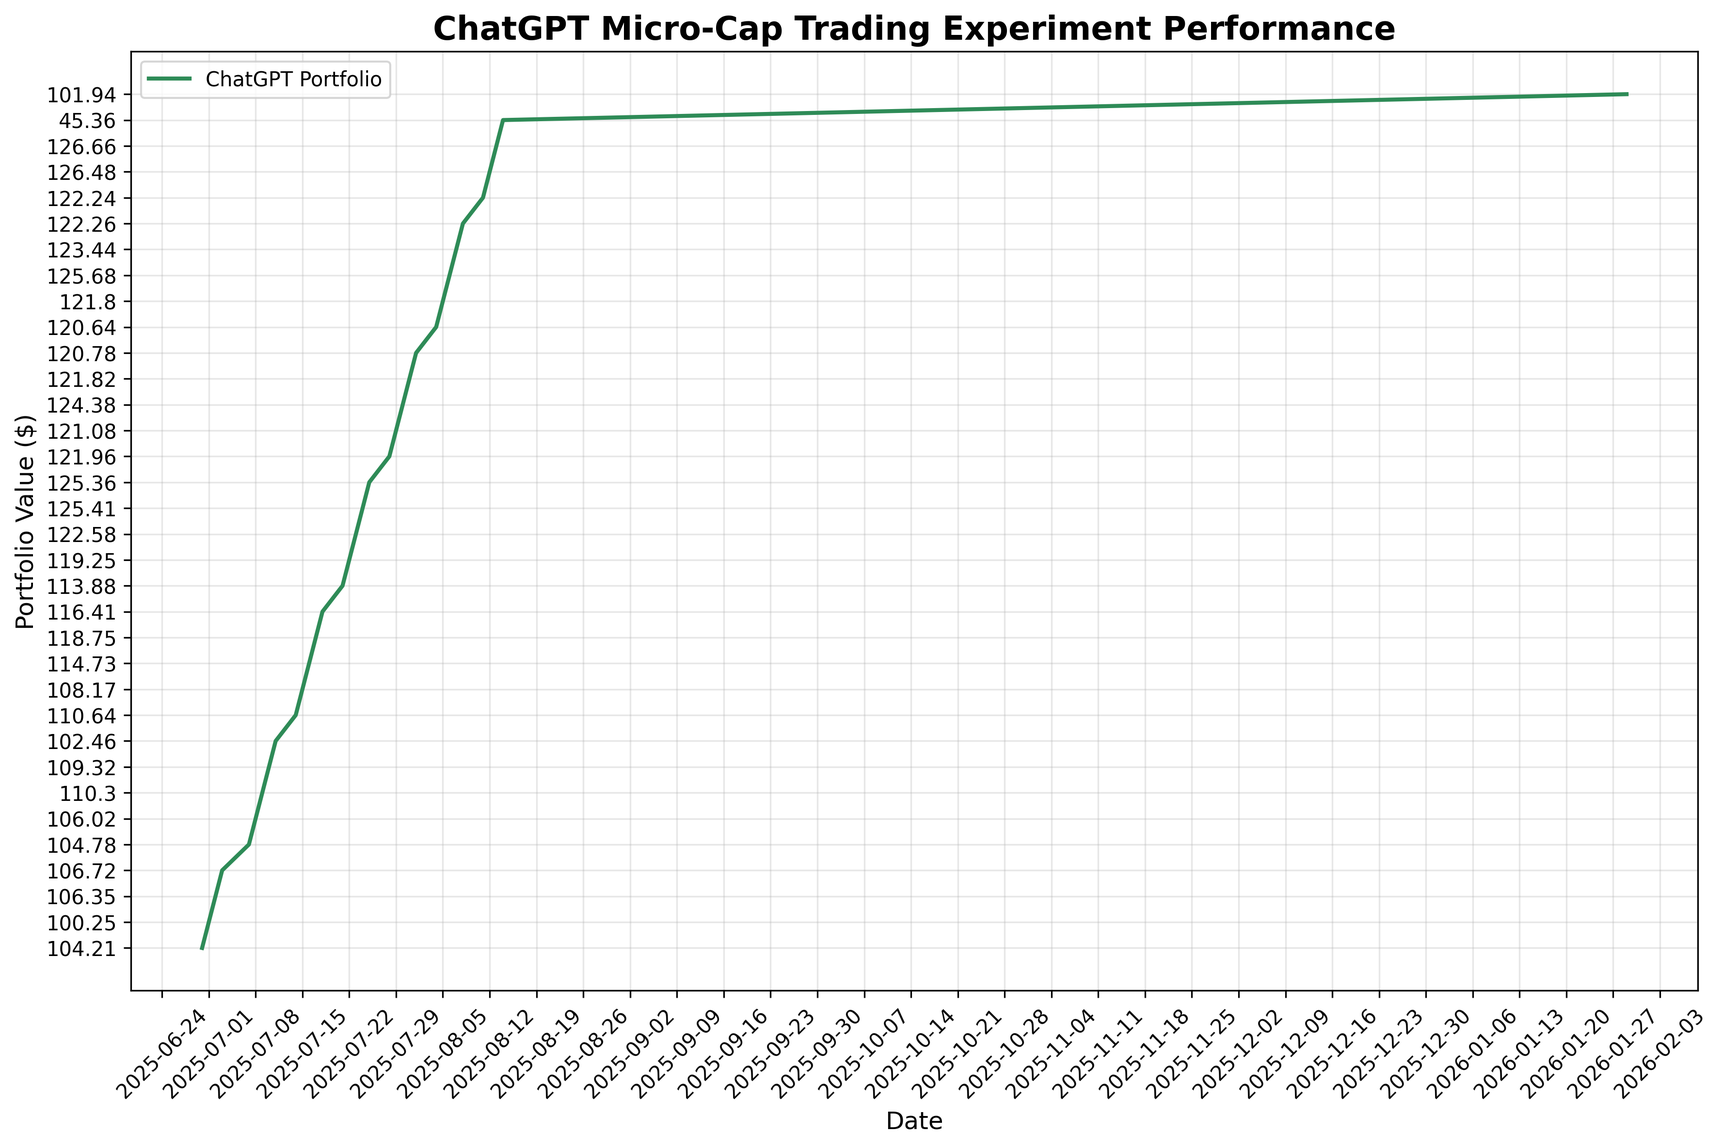
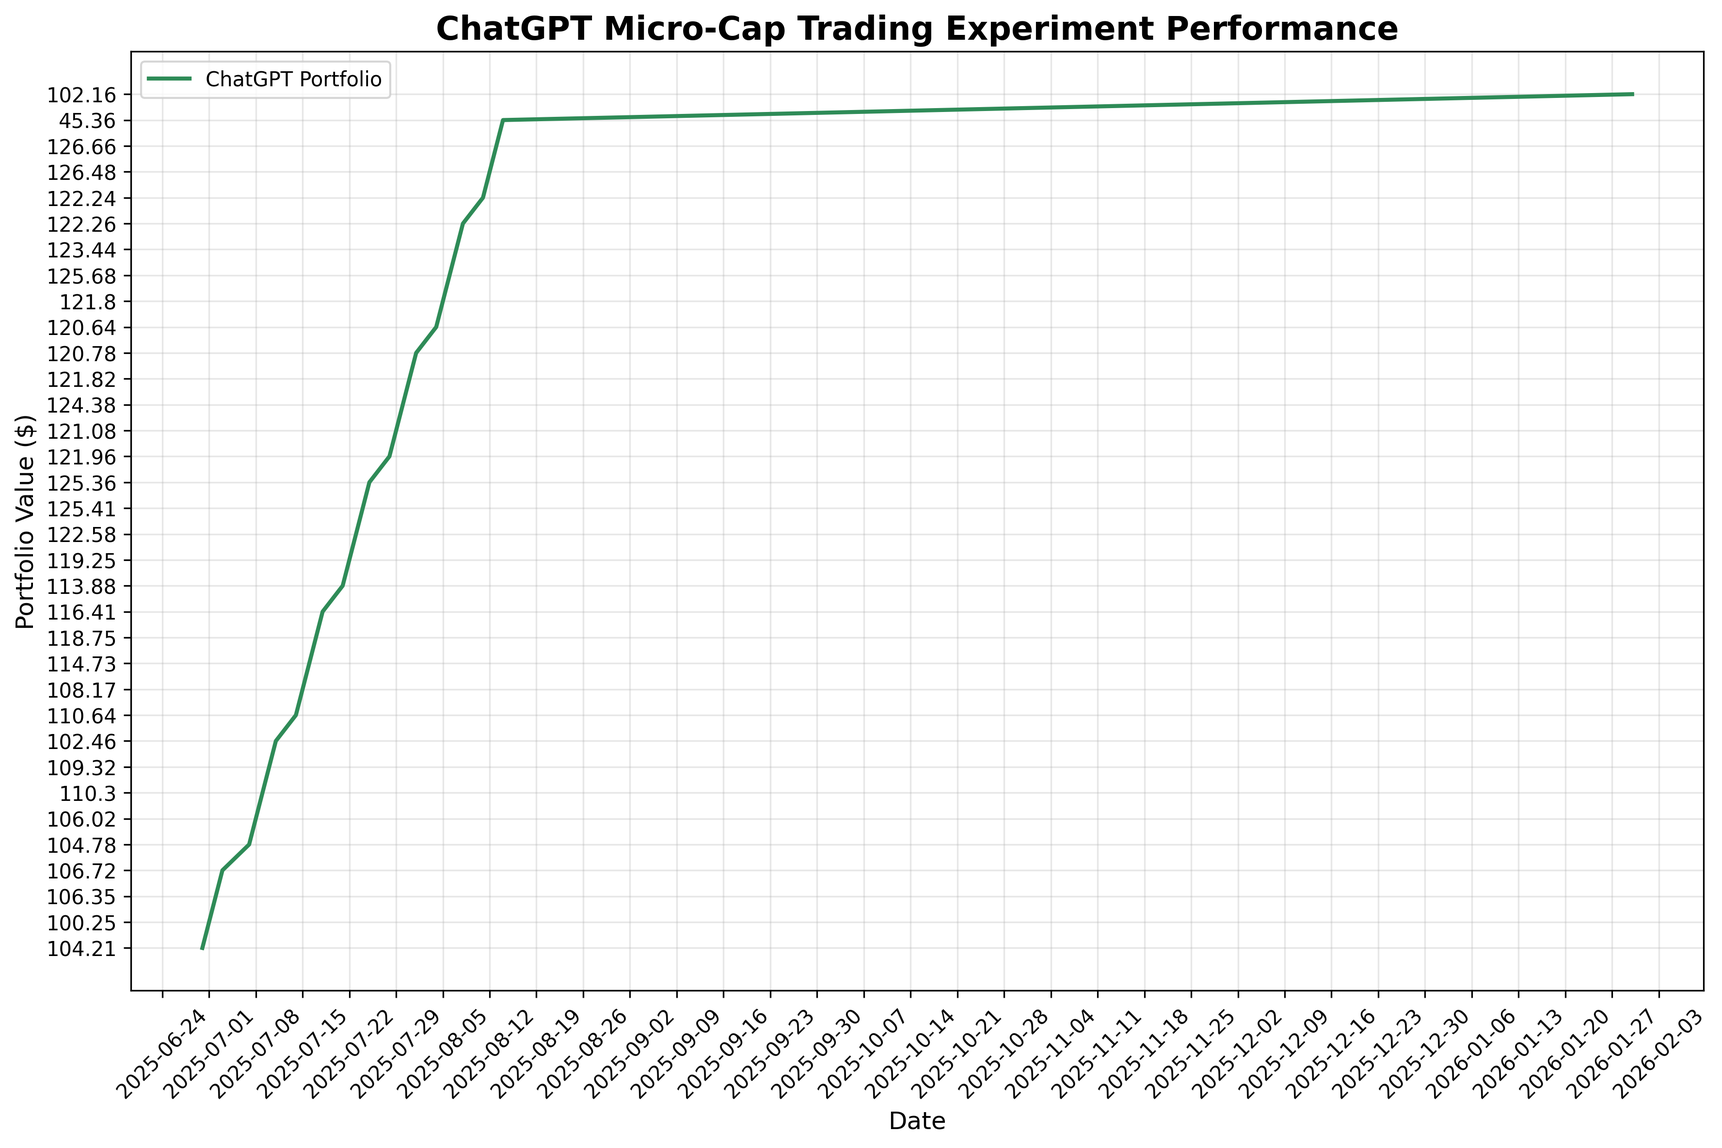
deploy: e15cad030d70fb3fbb51f9df6e22fa70c2f175c0

diff --git a/index.html b/index.html
@@ -105,7 +105,7 @@
                 <div class="stat-label">Total Trades</div>
             </div>
             <div class="stat-card">
-                <div class="stat-value" id="last-updated">2026-01-29</div>
+                <div class="stat-value" id="last-updated">2026-01-30</div>
                 <div class="stat-label">Last Updated</div>
             </div>
         </div>
@@ -160,8 +160,8 @@
     
     <script>
         // Portfolio data
-        const portfolioData = JSON.parse("[{&quot;Date&quot;: &quot;2025-08-11&quot;, &quot;Ticker&quot;: &quot;ABEO&quot;, &quot;Shares&quot;: 4.0, &quot;Buy Price&quot;: 5.77, &quot;Cost Basis&quot;: 23.08, &quot;Stop Loss&quot;: 4.9, &quot;Current Price&quot;: 6.28, &quot;Total Value&quot;: 25.12, &quot;PnL&quot;: 2.04, &quot;Action&quot;: &quot;HOLD&quot;, &quot;Cash Balance&quot;: NaN, &quot;Total Equity&quot;: NaN}, {&quot;Date&quot;: &quot;2025-08-11&quot;, &quot;Ticker&quot;: &quot;ACTU&quot;, &quot;Shares&quot;: 6.0, &quot;Buy Price&quot;: 5.75, &quot;Cost Basis&quot;: 34.5, &quot;Stop Loss&quot;: 4.89, &quot;Current Price&quot;: 8.01, &quot;Total Value&quot;: 48.06, &quot;PnL&quot;: 13.56, &quot;Action&quot;: &quot;HOLD&quot;, &quot;Cash Balance&quot;: NaN, &quot;Total Equity&quot;: NaN}, {&quot;Date&quot;: &quot;2025-08-11&quot;, &quot;Ticker&quot;: &quot;ESPR&quot;, &quot;Shares&quot;: 2.0, &quot;Buy Price&quot;: 1.91, &quot;Cost Basis&quot;: 3.82, &quot;Stop Loss&quot;: 1.6, &quot;Current Price&quot;: 1.85, &quot;Total Value&quot;: 3.7, &quot;PnL&quot;: -0.12, &quot;Action&quot;: &quot;HOLD&quot;, &quot;Cash Balance&quot;: NaN, &quot;Total Equity&quot;: NaN}, {&quot;Date&quot;: &quot;2025-08-11&quot;, &quot;Ticker&quot;: &quot;TOTAL&quot;, &quot;Shares&quot;: NaN, &quot;Buy Price&quot;: NaN, &quot;Cost Basis&quot;: NaN, &quot;Stop Loss&quot;: NaN, &quot;Current Price&quot;: NaN, &quot;Total Value&quot;: 76.88, &quot;PnL&quot;: 15.48, &quot;Action&quot;: NaN, &quot;Cash Balance&quot;: 45.36, &quot;Total Equity&quot;: &quot;122.24&quot;}, {&quot;Date&quot;: &quot;2025-08-12&quot;, &quot;Ticker&quot;: &quot;ABEO&quot;, &quot;Shares&quot;: 4.0, &quot;Buy Price&quot;: 5.77, &quot;Cost Basis&quot;: 23.08, &quot;Stop Loss&quot;: 4.9, &quot;Current Price&quot;: 6.38, &quot;Total Value&quot;: 25.52, &quot;PnL&quot;: 2.44, &quot;Action&quot;: &quot;HOLD&quot;, &quot;Cash Balance&quot;: NaN, &quot;Total Equity&quot;: NaN}, {&quot;Date&quot;: &quot;2025-08-12&quot;, &quot;Ticker&quot;: &quot;ACTU&quot;, &quot;Shares&quot;: 6.0, &quot;Buy Price&quot;: 5.75, &quot;Cost Basis&quot;: 34.5, &quot;Stop Loss&quot;: 4.89, &quot;Current Price&quot;: 8.67, &quot;Total Value&quot;: 52.02, &quot;PnL&quot;: 17.52, &quot;Action&quot;: &quot;HOLD&quot;, &quot;Cash Balance&quot;: NaN, &quot;Total Equity&quot;: NaN}, {&quot;Date&quot;: &quot;2025-08-12&quot;, &quot;Ticker&quot;: &quot;ESPR&quot;, &quot;Shares&quot;: 2.0, &quot;Buy Price&quot;: 1.91, &quot;Cost Basis&quot;: 3.82, &quot;Stop Loss&quot;: 1.6, &quot;Current Price&quot;: 1.79, &quot;Total Value&quot;: 3.58, &quot;PnL&quot;: -0.24, &quot;Action&quot;: &quot;HOLD&quot;, &quot;Cash Balance&quot;: NaN, &quot;Total Equity&quot;: NaN}, {&quot;Date&quot;: &quot;2025-08-12&quot;, &quot;Ticker&quot;: &quot;TOTAL&quot;, &quot;Shares&quot;: NaN, &quot;Buy Price&quot;: NaN, &quot;Cost Basis&quot;: NaN, &quot;Stop Loss&quot;: NaN, &quot;Current Price&quot;: NaN, &quot;Total Value&quot;: 81.12, &quot;PnL&quot;: 19.72, &quot;Action&quot;: NaN, &quot;Cash Balance&quot;: 45.36, &quot;Total Equity&quot;: &quot;126.48&quot;}, {&quot;Date&quot;: &quot;2025-08-13&quot;, &quot;Ticker&quot;: &quot;ABEO&quot;, &quot;Shares&quot;: 4.0, &quot;Buy Price&quot;: 5.77, &quot;Cost Basis&quot;: 23.08, &quot;Stop Loss&quot;: 4.9, &quot;Current Price&quot;: 6.56, &quot;Total Value&quot;: 26.24, &quot;PnL&quot;: 3.16, &quot;Action&quot;: &quot;HOLD&quot;, &quot;Cash Balance&quot;: NaN, &quot;Total Equity&quot;: NaN}, {&quot;Date&quot;: &quot;2025-08-13&quot;, &quot;Ticker&quot;: &quot;ACTU&quot;, &quot;Shares&quot;: 6.0, &quot;Buy Price&quot;: 5.75, &quot;Cost Basis&quot;: 34.5, &quot;Stop Loss&quot;: 4.89, &quot;Current Price&quot;: 8.53, &quot;Total Value&quot;: 51.18, &quot;PnL&quot;: 16.68, &quot;Action&quot;: &quot;HOLD&quot;, &quot;Cash Balance&quot;: NaN, &quot;Total Equity&quot;: NaN}, {&quot;Date&quot;: &quot;2025-08-13&quot;, &quot;Ticker&quot;: &quot;ESPR&quot;, &quot;Shares&quot;: 2.0, &quot;Buy Price&quot;: 1.91, &quot;Cost Basis&quot;: 3.82, &quot;Stop Loss&quot;: 1.6, &quot;Current Price&quot;: 1.94, &quot;Total Value&quot;: 3.88, &quot;PnL&quot;: 0.06, &quot;Action&quot;: &quot;HOLD&quot;, &quot;Cash Balance&quot;: NaN, &quot;Total Equity&quot;: NaN}, {&quot;Date&quot;: &quot;2025-08-13&quot;, &quot;Ticker&quot;: &quot;TOTAL&quot;, &quot;Shares&quot;: NaN, &quot;Buy Price&quot;: NaN, &quot;Cost Basis&quot;: NaN, &quot;Stop Loss&quot;: NaN, &quot;Current Price&quot;: NaN, &quot;Total Value&quot;: 81.3, &quot;PnL&quot;: 19.9, &quot;Action&quot;: NaN, &quot;Cash Balance&quot;: 45.36, &quot;Total Equity&quot;: &quot;126.66&quot;}, {&quot;Date&quot;: &quot;2025-08-14&quot;, &quot;Ticker&quot;: &quot;ABEO&quot;, &quot;Shares&quot;: 4.0, &quot;Buy Price&quot;: 5.77, &quot;Cost Basis&quot;: 23.08, &quot;Stop Loss&quot;: 4.9, &quot;Current Price&quot;: NaN, &quot;Total Value&quot;: NaN, &quot;PnL&quot;: NaN, &quot;Action&quot;: &quot;NO DATA&quot;, &quot;Cash Balance&quot;: NaN, &quot;Total Equity&quot;: NaN}, {&quot;Date&quot;: &quot;2025-08-14&quot;, &quot;Ticker&quot;: &quot;ACTU&quot;, &quot;Shares&quot;: 6.0, &quot;Buy Price&quot;: 5.75, &quot;Cost Basis&quot;: 34.5, &quot;Stop Loss&quot;: 4.89, &quot;Current Price&quot;: NaN, &quot;Total Value&quot;: NaN, &quot;PnL&quot;: NaN, &quot;Action&quot;: &quot;NO DATA&quot;, &quot;Cash Balance&quot;: NaN, &quot;Total Equity&quot;: NaN}, {&quot;Date&quot;: &quot;2025-08-14&quot;, &quot;Ticker&quot;: &quot;ESPR&quot;, &quot;Shares&quot;: 2.0, &quot;Buy Price&quot;: 1.91, &quot;Cost Basis&quot;: 3.82, &quot;Stop Loss&quot;: 1.6, &quot;Current Price&quot;: NaN, &quot;Total Value&quot;: NaN, &quot;PnL&quot;: NaN, &quot;Action&quot;: &quot;NO DATA&quot;, &quot;Cash Balance&quot;: NaN, &quot;Total Equity&quot;: NaN}, {&quot;Date&quot;: &quot;2025-08-14&quot;, &quot;Ticker&quot;: &quot;TOTAL&quot;, &quot;Shares&quot;: NaN, &quot;Buy Price&quot;: NaN, &quot;Cost Basis&quot;: NaN, &quot;Stop Loss&quot;: NaN, &quot;Current Price&quot;: NaN, &quot;Total Value&quot;: 0.0, &quot;PnL&quot;: 0.0, &quot;Action&quot;: NaN, &quot;Cash Balance&quot;: 45.36, &quot;Total Equity&quot;: &quot;45.36&quot;}, {&quot;Date&quot;: &quot;2026-01-29&quot;, &quot;Ticker&quot;: &quot;ABEO&quot;, &quot;Shares&quot;: 4.0, &quot;Buy Price&quot;: 5.77, &quot;Cost Basis&quot;: 23.08, &quot;Stop Loss&quot;: 4.9, &quot;Current Price&quot;: 4.9, &quot;Total Value&quot;: 19.6, &quot;PnL&quot;: -3.48, &quot;Action&quot;: &quot;SELL - Stop Loss Triggered&quot;, &quot;Cash Balance&quot;: NaN, &quot;Total Equity&quot;: NaN}, {&quot;Date&quot;: &quot;2026-01-29&quot;, &quot;Ticker&quot;: &quot;ACTU&quot;, &quot;Shares&quot;: 6.0, &quot;Buy Price&quot;: 5.75, &quot;Cost Basis&quot;: 34.5, &quot;Stop Loss&quot;: 4.89, &quot;Current Price&quot;: 5.01, &quot;Total Value&quot;: 30.06, &quot;PnL&quot;: -4.44, &quot;Action&quot;: &quot;HOLD&quot;, &quot;Cash Balance&quot;: NaN, &quot;Total Equity&quot;: NaN}, {&quot;Date&quot;: &quot;2026-01-29&quot;, &quot;Ticker&quot;: &quot;ESPR&quot;, &quot;Shares&quot;: 2.0, &quot;Buy Price&quot;: 1.91, &quot;Cost Basis&quot;: 3.82, &quot;Stop Loss&quot;: 1.6, &quot;Current Price&quot;: 3.46, &quot;Total Value&quot;: 6.92, &quot;PnL&quot;: 3.1, &quot;Action&quot;: &quot;HOLD&quot;, &quot;Cash Balance&quot;: NaN, &quot;Total Equity&quot;: NaN}, {&quot;Date&quot;: &quot;2026-01-29&quot;, &quot;Ticker&quot;: &quot;TOTAL&quot;, &quot;Shares&quot;: NaN, &quot;Buy Price&quot;: NaN, &quot;Cost Basis&quot;: NaN, &quot;Stop Loss&quot;: NaN, &quot;Current Price&quot;: NaN, &quot;Total Value&quot;: 36.98, &quot;PnL&quot;: -1.34, &quot;Action&quot;: NaN, &quot;Cash Balance&quot;: 64.96, &quot;Total Equity&quot;: &quot;101.94&quot;}]");
-        const tradeData = JSON.parse("[{&quot;Date&quot;: &quot;2025-07-08&quot;, &quot;Ticker&quot;: &quot;IINN&quot;, &quot;Shares Bought&quot;: 20.0, &quot;Buy Price&quot;: 1.5, &quot;Cost Basis&quot;: 30.0, &quot;PnL&quot;: 0.0, &quot;Reason&quot;: &quot;MANUAL BUY - New position&quot;, &quot;Shares Sold&quot;: NaN, &quot;Sell Price&quot;: NaN}, {&quot;Date&quot;: &quot;2025-07-21&quot;, &quot;Ticker&quot;: &quot;CADL&quot;, &quot;Shares Bought&quot;: NaN, &quot;Buy Price&quot;: NaN, &quot;Cost Basis&quot;: 25.2, &quot;PnL&quot;: 8.5, &quot;Reason&quot;: &quot;MANUAL SELL - GAIN CAPITAL FOR ACTU&quot;, &quot;Shares Sold&quot;: 5.0, &quot;Sell Price&quot;: 6.59}, {&quot;Date&quot;: &quot;2025-07-21&quot;, &quot;Ticker&quot;: &quot;ACTU&quot;, &quot;Shares Bought&quot;: 6.0, &quot;Buy Price&quot;: 5.75, &quot;Cost Basis&quot;: 34.5, &quot;PnL&quot;: 0.0, &quot;Reason&quot;: &quot;MANUAL BUY - New position&quot;, &quot;Shares Sold&quot;: NaN, &quot;Sell Price&quot;: NaN}, {&quot;Date&quot;: &quot;2025-07-28&quot;, &quot;Ticker&quot;: &quot;IINN&quot;, &quot;Shares Bought&quot;: NaN, &quot;Buy Price&quot;: NaN, &quot;Cost Basis&quot;: 9.0, &quot;PnL&quot;: -0.5400000000000009, &quot;Reason&quot;: &quot;MANUAL SELL - POSITION REDUCTION&quot;, &quot;Shares Sold&quot;: 6.0, &quot;Sell Price&quot;: 1.41}, {&quot;Date&quot;: &quot;2025-07-29&quot;, &quot;Ticker&quot;: &quot;AZTR&quot;, &quot;Shares Bought&quot;: NaN, &quot;Buy Price&quot;: NaN, &quot;Cost Basis&quot;: 13.75, &quot;PnL&quot;: -2.75, &quot;Reason&quot;: &quot;MANUAL SELL - DILUTION RISK&quot;, &quot;Shares Sold&quot;: 55.0, &quot;Sell Price&quot;: 0.2}, {&quot;Date&quot;: &quot;2025-08-01&quot;, &quot;Ticker&quot;: &quot;IINN&quot;, &quot;Shares Bought&quot;: 2.0, &quot;Buy Price&quot;: 1.74, &quot;Cost Basis&quot;: 3.48, &quot;PnL&quot;: 0.0, &quot;Reason&quot;: &quot;MANUAL BUY - New position&quot;, &quot;Shares Sold&quot;: NaN, &quot;Sell Price&quot;: NaN}, {&quot;Date&quot;: &quot;2025-08-01&quot;, &quot;Ticker&quot;: &quot;ABEO&quot;, &quot;Shares Bought&quot;: NaN, &quot;Buy Price&quot;: NaN, &quot;Cost Basis&quot;: 11.54, &quot;PnL&quot;: 1.200000000000001, &quot;Reason&quot;: &quot;MANUAL SELL - TRIM AFTER SUPPORT LOSS&quot;, &quot;Shares Sold&quot;: 2.0, &quot;Sell Price&quot;: 6.37}, {&quot;Date&quot;: &quot;2025-08-07&quot;, &quot;Ticker&quot;: &quot;ESPR&quot;, &quot;Shares Bought&quot;: 2.0, &quot;Buy Price&quot;: 1.91, &quot;Cost Basis&quot;: 3.82, &quot;PnL&quot;: 0.0, &quot;Reason&quot;: &quot;MANUAL BUY - New position&quot;, &quot;Shares Sold&quot;: NaN, &quot;Sell Price&quot;: NaN}, {&quot;Date&quot;: &quot;2025-08-08&quot;, &quot;Ticker&quot;: &quot;IINN&quot;, &quot;Shares Bought&quot;: NaN, &quot;Buy Price&quot;: NaN, &quot;Cost Basis&quot;: 1.5, &quot;PnL&quot;: -6.4, &quot;Reason&quot;: &quot;AUTOMATED SELL - STOPLOSS TRIGGERED&quot;, &quot;Shares Sold&quot;: 16.0, &quot;Sell Price&quot;: 1.1}, {&quot;Date&quot;: &quot;2026-01-29&quot;, &quot;Ticker&quot;: &quot;ABEO&quot;, &quot;Shares Bought&quot;: NaN, &quot;Buy Price&quot;: NaN, &quot;Cost Basis&quot;: 5.77, &quot;PnL&quot;: -3.48, &quot;Reason&quot;: &quot;AUTOMATED SELL - STOPLOSS TRIGGERED&quot;, &quot;Shares Sold&quot;: 4.0, &quot;Sell Price&quot;: 4.9}]");
+        const portfolioData = JSON.parse("[{&quot;Date&quot;: &quot;2025-08-11&quot;, &quot;Ticker&quot;: &quot;ABEO&quot;, &quot;Shares&quot;: 4.0, &quot;Buy Price&quot;: 5.77, &quot;Cost Basis&quot;: 23.08, &quot;Stop Loss&quot;: 4.9, &quot;Current Price&quot;: 6.28, &quot;Total Value&quot;: 25.12, &quot;PnL&quot;: 2.04, &quot;Action&quot;: &quot;HOLD&quot;, &quot;Cash Balance&quot;: NaN, &quot;Total Equity&quot;: NaN}, {&quot;Date&quot;: &quot;2025-08-11&quot;, &quot;Ticker&quot;: &quot;ACTU&quot;, &quot;Shares&quot;: 6.0, &quot;Buy Price&quot;: 5.75, &quot;Cost Basis&quot;: 34.5, &quot;Stop Loss&quot;: 4.89, &quot;Current Price&quot;: 8.01, &quot;Total Value&quot;: 48.06, &quot;PnL&quot;: 13.56, &quot;Action&quot;: &quot;HOLD&quot;, &quot;Cash Balance&quot;: NaN, &quot;Total Equity&quot;: NaN}, {&quot;Date&quot;: &quot;2025-08-11&quot;, &quot;Ticker&quot;: &quot;ESPR&quot;, &quot;Shares&quot;: 2.0, &quot;Buy Price&quot;: 1.91, &quot;Cost Basis&quot;: 3.82, &quot;Stop Loss&quot;: 1.6, &quot;Current Price&quot;: 1.85, &quot;Total Value&quot;: 3.7, &quot;PnL&quot;: -0.12, &quot;Action&quot;: &quot;HOLD&quot;, &quot;Cash Balance&quot;: NaN, &quot;Total Equity&quot;: NaN}, {&quot;Date&quot;: &quot;2025-08-11&quot;, &quot;Ticker&quot;: &quot;TOTAL&quot;, &quot;Shares&quot;: NaN, &quot;Buy Price&quot;: NaN, &quot;Cost Basis&quot;: NaN, &quot;Stop Loss&quot;: NaN, &quot;Current Price&quot;: NaN, &quot;Total Value&quot;: 76.88, &quot;PnL&quot;: 15.48, &quot;Action&quot;: NaN, &quot;Cash Balance&quot;: 45.36, &quot;Total Equity&quot;: &quot;122.24&quot;}, {&quot;Date&quot;: &quot;2025-08-12&quot;, &quot;Ticker&quot;: &quot;ABEO&quot;, &quot;Shares&quot;: 4.0, &quot;Buy Price&quot;: 5.77, &quot;Cost Basis&quot;: 23.08, &quot;Stop Loss&quot;: 4.9, &quot;Current Price&quot;: 6.38, &quot;Total Value&quot;: 25.52, &quot;PnL&quot;: 2.44, &quot;Action&quot;: &quot;HOLD&quot;, &quot;Cash Balance&quot;: NaN, &quot;Total Equity&quot;: NaN}, {&quot;Date&quot;: &quot;2025-08-12&quot;, &quot;Ticker&quot;: &quot;ACTU&quot;, &quot;Shares&quot;: 6.0, &quot;Buy Price&quot;: 5.75, &quot;Cost Basis&quot;: 34.5, &quot;Stop Loss&quot;: 4.89, &quot;Current Price&quot;: 8.67, &quot;Total Value&quot;: 52.02, &quot;PnL&quot;: 17.52, &quot;Action&quot;: &quot;HOLD&quot;, &quot;Cash Balance&quot;: NaN, &quot;Total Equity&quot;: NaN}, {&quot;Date&quot;: &quot;2025-08-12&quot;, &quot;Ticker&quot;: &quot;ESPR&quot;, &quot;Shares&quot;: 2.0, &quot;Buy Price&quot;: 1.91, &quot;Cost Basis&quot;: 3.82, &quot;Stop Loss&quot;: 1.6, &quot;Current Price&quot;: 1.79, &quot;Total Value&quot;: 3.58, &quot;PnL&quot;: -0.24, &quot;Action&quot;: &quot;HOLD&quot;, &quot;Cash Balance&quot;: NaN, &quot;Total Equity&quot;: NaN}, {&quot;Date&quot;: &quot;2025-08-12&quot;, &quot;Ticker&quot;: &quot;TOTAL&quot;, &quot;Shares&quot;: NaN, &quot;Buy Price&quot;: NaN, &quot;Cost Basis&quot;: NaN, &quot;Stop Loss&quot;: NaN, &quot;Current Price&quot;: NaN, &quot;Total Value&quot;: 81.12, &quot;PnL&quot;: 19.72, &quot;Action&quot;: NaN, &quot;Cash Balance&quot;: 45.36, &quot;Total Equity&quot;: &quot;126.48&quot;}, {&quot;Date&quot;: &quot;2025-08-13&quot;, &quot;Ticker&quot;: &quot;ABEO&quot;, &quot;Shares&quot;: 4.0, &quot;Buy Price&quot;: 5.77, &quot;Cost Basis&quot;: 23.08, &quot;Stop Loss&quot;: 4.9, &quot;Current Price&quot;: 6.56, &quot;Total Value&quot;: 26.24, &quot;PnL&quot;: 3.16, &quot;Action&quot;: &quot;HOLD&quot;, &quot;Cash Balance&quot;: NaN, &quot;Total Equity&quot;: NaN}, {&quot;Date&quot;: &quot;2025-08-13&quot;, &quot;Ticker&quot;: &quot;ACTU&quot;, &quot;Shares&quot;: 6.0, &quot;Buy Price&quot;: 5.75, &quot;Cost Basis&quot;: 34.5, &quot;Stop Loss&quot;: 4.89, &quot;Current Price&quot;: 8.53, &quot;Total Value&quot;: 51.18, &quot;PnL&quot;: 16.68, &quot;Action&quot;: &quot;HOLD&quot;, &quot;Cash Balance&quot;: NaN, &quot;Total Equity&quot;: NaN}, {&quot;Date&quot;: &quot;2025-08-13&quot;, &quot;Ticker&quot;: &quot;ESPR&quot;, &quot;Shares&quot;: 2.0, &quot;Buy Price&quot;: 1.91, &quot;Cost Basis&quot;: 3.82, &quot;Stop Loss&quot;: 1.6, &quot;Current Price&quot;: 1.94, &quot;Total Value&quot;: 3.88, &quot;PnL&quot;: 0.06, &quot;Action&quot;: &quot;HOLD&quot;, &quot;Cash Balance&quot;: NaN, &quot;Total Equity&quot;: NaN}, {&quot;Date&quot;: &quot;2025-08-13&quot;, &quot;Ticker&quot;: &quot;TOTAL&quot;, &quot;Shares&quot;: NaN, &quot;Buy Price&quot;: NaN, &quot;Cost Basis&quot;: NaN, &quot;Stop Loss&quot;: NaN, &quot;Current Price&quot;: NaN, &quot;Total Value&quot;: 81.3, &quot;PnL&quot;: 19.9, &quot;Action&quot;: NaN, &quot;Cash Balance&quot;: 45.36, &quot;Total Equity&quot;: &quot;126.66&quot;}, {&quot;Date&quot;: &quot;2025-08-14&quot;, &quot;Ticker&quot;: &quot;ABEO&quot;, &quot;Shares&quot;: 4.0, &quot;Buy Price&quot;: 5.77, &quot;Cost Basis&quot;: 23.08, &quot;Stop Loss&quot;: 4.9, &quot;Current Price&quot;: NaN, &quot;Total Value&quot;: NaN, &quot;PnL&quot;: NaN, &quot;Action&quot;: &quot;NO DATA&quot;, &quot;Cash Balance&quot;: NaN, &quot;Total Equity&quot;: NaN}, {&quot;Date&quot;: &quot;2025-08-14&quot;, &quot;Ticker&quot;: &quot;ACTU&quot;, &quot;Shares&quot;: 6.0, &quot;Buy Price&quot;: 5.75, &quot;Cost Basis&quot;: 34.5, &quot;Stop Loss&quot;: 4.89, &quot;Current Price&quot;: NaN, &quot;Total Value&quot;: NaN, &quot;PnL&quot;: NaN, &quot;Action&quot;: &quot;NO DATA&quot;, &quot;Cash Balance&quot;: NaN, &quot;Total Equity&quot;: NaN}, {&quot;Date&quot;: &quot;2025-08-14&quot;, &quot;Ticker&quot;: &quot;ESPR&quot;, &quot;Shares&quot;: 2.0, &quot;Buy Price&quot;: 1.91, &quot;Cost Basis&quot;: 3.82, &quot;Stop Loss&quot;: 1.6, &quot;Current Price&quot;: NaN, &quot;Total Value&quot;: NaN, &quot;PnL&quot;: NaN, &quot;Action&quot;: &quot;NO DATA&quot;, &quot;Cash Balance&quot;: NaN, &quot;Total Equity&quot;: NaN}, {&quot;Date&quot;: &quot;2025-08-14&quot;, &quot;Ticker&quot;: &quot;TOTAL&quot;, &quot;Shares&quot;: NaN, &quot;Buy Price&quot;: NaN, &quot;Cost Basis&quot;: NaN, &quot;Stop Loss&quot;: NaN, &quot;Current Price&quot;: NaN, &quot;Total Value&quot;: 0.0, &quot;PnL&quot;: 0.0, &quot;Action&quot;: NaN, &quot;Cash Balance&quot;: 45.36, &quot;Total Equity&quot;: &quot;45.36&quot;}, {&quot;Date&quot;: &quot;2026-01-30&quot;, &quot;Ticker&quot;: &quot;ABEO&quot;, &quot;Shares&quot;: 4.0, &quot;Buy Price&quot;: 5.77, &quot;Cost Basis&quot;: 23.08, &quot;Stop Loss&quot;: 4.9, &quot;Current Price&quot;: 5.09, &quot;Total Value&quot;: 20.36, &quot;PnL&quot;: -2.72, &quot;Action&quot;: &quot;HOLD&quot;, &quot;Cash Balance&quot;: NaN, &quot;Total Equity&quot;: NaN}, {&quot;Date&quot;: &quot;2026-01-30&quot;, &quot;Ticker&quot;: &quot;ACTU&quot;, &quot;Shares&quot;: 6.0, &quot;Buy Price&quot;: 5.75, &quot;Cost Basis&quot;: 34.5, &quot;Stop Loss&quot;: 4.89, &quot;Current Price&quot;: 4.89, &quot;Total Value&quot;: 29.34, &quot;PnL&quot;: -5.16, &quot;Action&quot;: &quot;SELL - Stop Loss Triggered&quot;, &quot;Cash Balance&quot;: NaN, &quot;Total Equity&quot;: NaN}, {&quot;Date&quot;: &quot;2026-01-30&quot;, &quot;Ticker&quot;: &quot;ESPR&quot;, &quot;Shares&quot;: 2.0, &quot;Buy Price&quot;: 1.91, &quot;Cost Basis&quot;: 3.82, &quot;Stop Loss&quot;: 1.6, &quot;Current Price&quot;: 3.55, &quot;Total Value&quot;: 7.1, &quot;PnL&quot;: 3.28, &quot;Action&quot;: &quot;HOLD&quot;, &quot;Cash Balance&quot;: NaN, &quot;Total Equity&quot;: NaN}, {&quot;Date&quot;: &quot;2026-01-30&quot;, &quot;Ticker&quot;: &quot;TOTAL&quot;, &quot;Shares&quot;: NaN, &quot;Buy Price&quot;: NaN, &quot;Cost Basis&quot;: NaN, &quot;Stop Loss&quot;: NaN, &quot;Current Price&quot;: NaN, &quot;Total Value&quot;: 27.46, &quot;PnL&quot;: 0.56, &quot;Action&quot;: NaN, &quot;Cash Balance&quot;: 74.7, &quot;Total Equity&quot;: &quot;102.16&quot;}]");
+        const tradeData = JSON.parse("[{&quot;Date&quot;: &quot;2025-07-08&quot;, &quot;Ticker&quot;: &quot;IINN&quot;, &quot;Shares Bought&quot;: 20.0, &quot;Buy Price&quot;: 1.5, &quot;Cost Basis&quot;: 30.0, &quot;PnL&quot;: 0.0, &quot;Reason&quot;: &quot;MANUAL BUY - New position&quot;, &quot;Shares Sold&quot;: NaN, &quot;Sell Price&quot;: NaN}, {&quot;Date&quot;: &quot;2025-07-21&quot;, &quot;Ticker&quot;: &quot;CADL&quot;, &quot;Shares Bought&quot;: NaN, &quot;Buy Price&quot;: NaN, &quot;Cost Basis&quot;: 25.2, &quot;PnL&quot;: 8.5, &quot;Reason&quot;: &quot;MANUAL SELL - GAIN CAPITAL FOR ACTU&quot;, &quot;Shares Sold&quot;: 5.0, &quot;Sell Price&quot;: 6.59}, {&quot;Date&quot;: &quot;2025-07-21&quot;, &quot;Ticker&quot;: &quot;ACTU&quot;, &quot;Shares Bought&quot;: 6.0, &quot;Buy Price&quot;: 5.75, &quot;Cost Basis&quot;: 34.5, &quot;PnL&quot;: 0.0, &quot;Reason&quot;: &quot;MANUAL BUY - New position&quot;, &quot;Shares Sold&quot;: NaN, &quot;Sell Price&quot;: NaN}, {&quot;Date&quot;: &quot;2025-07-28&quot;, &quot;Ticker&quot;: &quot;IINN&quot;, &quot;Shares Bought&quot;: NaN, &quot;Buy Price&quot;: NaN, &quot;Cost Basis&quot;: 9.0, &quot;PnL&quot;: -0.5400000000000009, &quot;Reason&quot;: &quot;MANUAL SELL - POSITION REDUCTION&quot;, &quot;Shares Sold&quot;: 6.0, &quot;Sell Price&quot;: 1.41}, {&quot;Date&quot;: &quot;2025-07-29&quot;, &quot;Ticker&quot;: &quot;AZTR&quot;, &quot;Shares Bought&quot;: NaN, &quot;Buy Price&quot;: NaN, &quot;Cost Basis&quot;: 13.75, &quot;PnL&quot;: -2.75, &quot;Reason&quot;: &quot;MANUAL SELL - DILUTION RISK&quot;, &quot;Shares Sold&quot;: 55.0, &quot;Sell Price&quot;: 0.2}, {&quot;Date&quot;: &quot;2025-08-01&quot;, &quot;Ticker&quot;: &quot;IINN&quot;, &quot;Shares Bought&quot;: 2.0, &quot;Buy Price&quot;: 1.74, &quot;Cost Basis&quot;: 3.48, &quot;PnL&quot;: 0.0, &quot;Reason&quot;: &quot;MANUAL BUY - New position&quot;, &quot;Shares Sold&quot;: NaN, &quot;Sell Price&quot;: NaN}, {&quot;Date&quot;: &quot;2025-08-01&quot;, &quot;Ticker&quot;: &quot;ABEO&quot;, &quot;Shares Bought&quot;: NaN, &quot;Buy Price&quot;: NaN, &quot;Cost Basis&quot;: 11.54, &quot;PnL&quot;: 1.200000000000001, &quot;Reason&quot;: &quot;MANUAL SELL - TRIM AFTER SUPPORT LOSS&quot;, &quot;Shares Sold&quot;: 2.0, &quot;Sell Price&quot;: 6.37}, {&quot;Date&quot;: &quot;2025-08-07&quot;, &quot;Ticker&quot;: &quot;ESPR&quot;, &quot;Shares Bought&quot;: 2.0, &quot;Buy Price&quot;: 1.91, &quot;Cost Basis&quot;: 3.82, &quot;PnL&quot;: 0.0, &quot;Reason&quot;: &quot;MANUAL BUY - New position&quot;, &quot;Shares Sold&quot;: NaN, &quot;Sell Price&quot;: NaN}, {&quot;Date&quot;: &quot;2025-08-08&quot;, &quot;Ticker&quot;: &quot;IINN&quot;, &quot;Shares Bought&quot;: NaN, &quot;Buy Price&quot;: NaN, &quot;Cost Basis&quot;: 1.5, &quot;PnL&quot;: -6.4, &quot;Reason&quot;: &quot;AUTOMATED SELL - STOPLOSS TRIGGERED&quot;, &quot;Shares Sold&quot;: 16.0, &quot;Sell Price&quot;: 1.1}, {&quot;Date&quot;: &quot;2026-01-30&quot;, &quot;Ticker&quot;: &quot;ACTU&quot;, &quot;Shares Bought&quot;: NaN, &quot;Buy Price&quot;: NaN, &quot;Cost Basis&quot;: 5.75, &quot;PnL&quot;: -5.16, &quot;Reason&quot;: &quot;AUTOMATED SELL - STOPLOSS TRIGGERED&quot;, &quot;Shares Sold&quot;: 6.0, &quot;Sell Price&quot;: 4.89}]");
         
         // Update total equity
         if (portfolioData.length > 0) {
